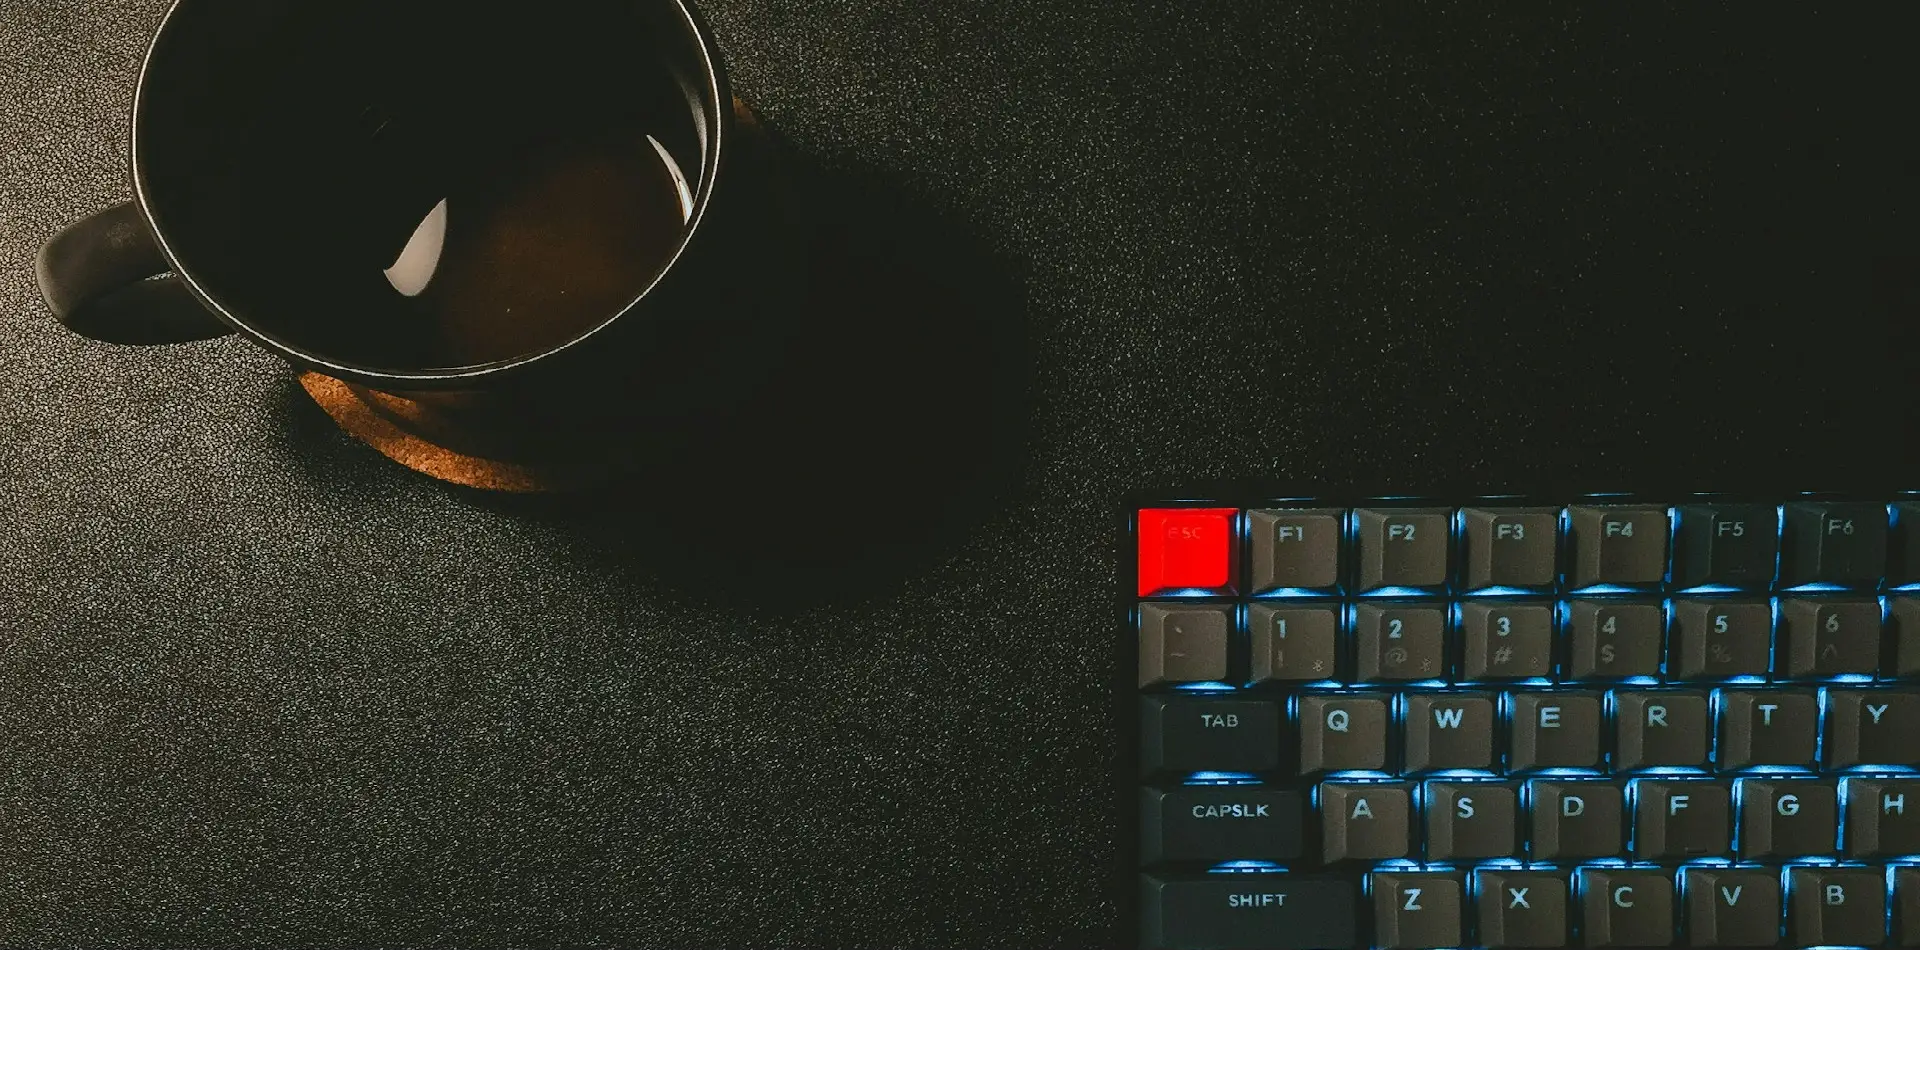
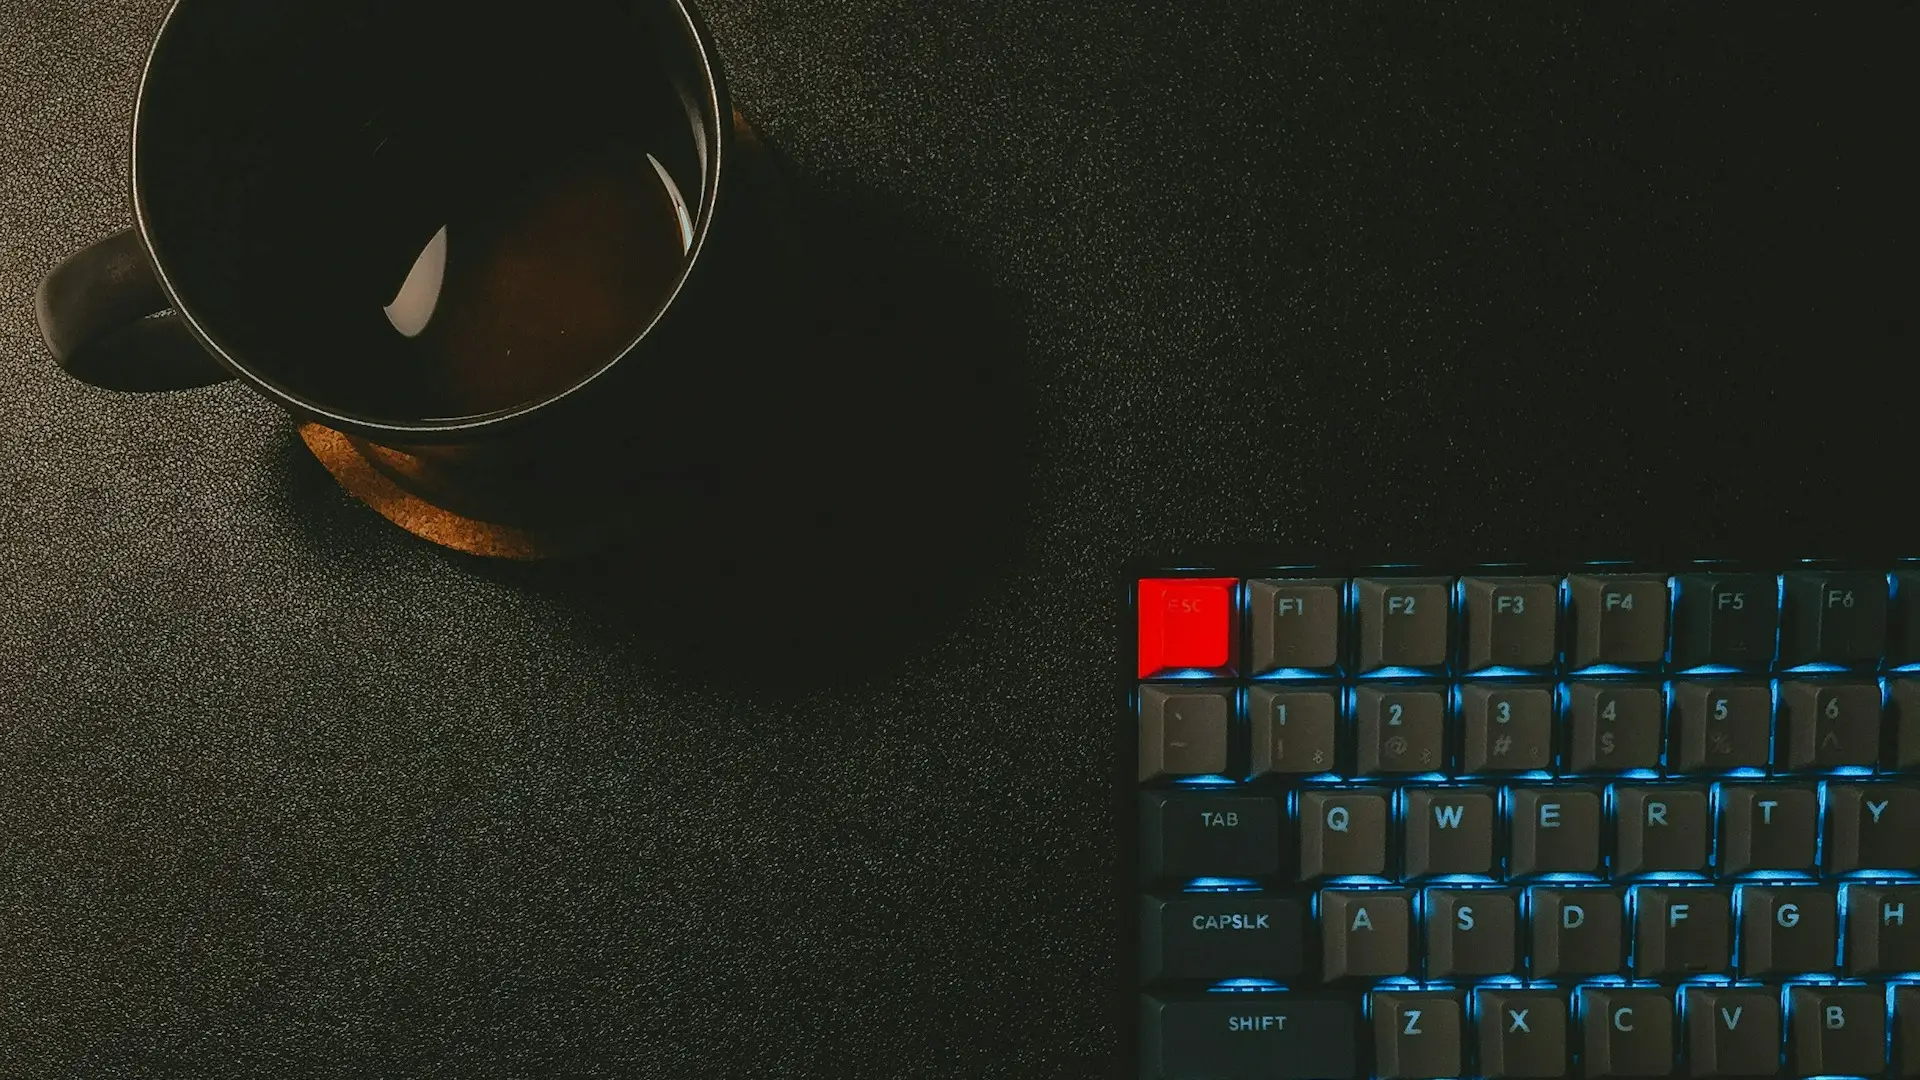
2024/02/28

diff --git a/source/styles.css b/source/styles.css
@@ -1,7 +1,5 @@
 /* styles.css */
-/* styles.css */
 
-/* HTML 전체에 배경 이미지 설정 */
 html {
     background-color: #333131; /* 회색 배경색 지정 */    
 }
@@ -19,10 +17,9 @@ h2 {
 li { list-style: none; }
 a { text-decoration: none; color: inherit; }
 
-img {    
-    max-width: 100%; 
+.about-img img {
+    width: 100%; 
     height: auto; 
     display: block; /* 이미지를 블록 요소로 설정하여 가로 중앙 정렬 */
     margin: 0 auto; /* 가로 중앙 정렬 */
 }
-

diff --git a/index.html b/index.html
@@ -12,8 +12,8 @@
 </head>
 <body>
     <div class="wrap">
-        <div id="about" class="con">
-            <!-- <h2>Coding Cat Portfolio</h2> -->
+        <div id="about" class="about-img">
+            <h2>Coding Cat Portfolio</h2>
             <!-- 이미지 등 추가 내용 -->
             <img src="source/images/index.webp">
         </div>
